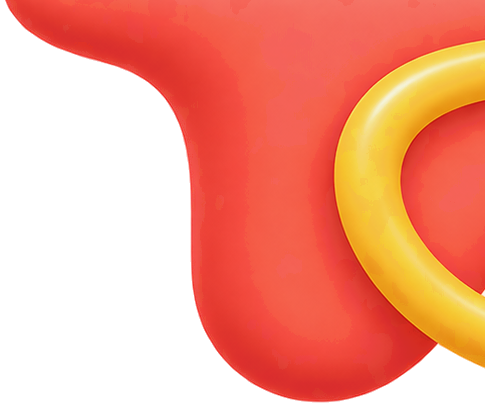
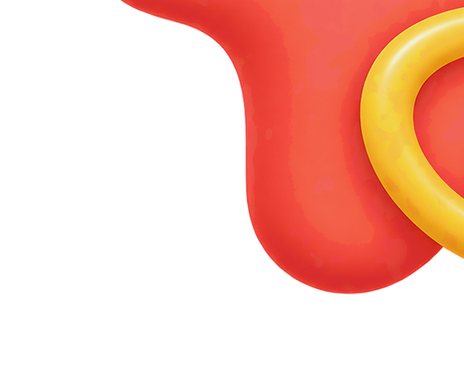
Style: Acréscimo de fundo

diff --git a/static/styles/login/auth_login.css b/static/styles/login/auth_login.css
@@ -10,11 +10,15 @@ body {
   display: flex;
   align-items: center;
   justify-content: center;
-  background-color: rgb(from var(--color-blue) r g b / 0.1);
+  /* background-color: rgb(from var(--color-blue) r g b / 0.1); */
   font-family: var(--font-primary, system-ui, sans-serif);
   position: relative;
   overflow-x: hidden;
   padding: 20px;
+  background-color: #EEEFFA;
+  background-image: radial-gradient(rgb(from var(--color-blue, #5967D9) r g b / 0.2) 1.2px, transparent 1.2px);
+  background-size: 24px 24px;
+  
 }
 
 
@@ -22,7 +26,8 @@ body {
   position: absolute;
   z-index: -1;
   pointer-events: none;
-  transition: all 0.3s ease; 
+  transition: all 0.3s ease;
+  filter: drop-shadow(0px 8px 16px rgba(0, 0, 0, 0.12));
 }
 
 .background-sup-esq { top: 0; left: 0; height: 180px; }
@@ -35,6 +40,10 @@ body {
   max-width: 460px;
   display: flex;
   justify-content: center;
+  align-items: center;
+  margin: auto; 
+  z-index: 1;
+  filter: drop-shadow(0px 8px 16px rgba(0, 0, 0, 0.05));
 }
 
 .login--card {
@@ -43,11 +52,12 @@ body {
   background-color: var(--bg-card, #FFFFFF);
   width: 100%;
   padding: 35px 40px;
-  border-radius: 20px;
+  border-radius: 24px;
   align-items: center;
   gap: 16px;
-  box-shadow: 0 4px 20px rgba(0, 0, 0, 0.03);
+  box-shadow: 0 10px 30px rgba(0, 0, 0, 0.06);
 }
+
 
 .logo_snec {
   height: 90px;
@@ -181,6 +191,7 @@ body {
   .background-sup-esq, .background-sup-dir,
   .background-inf-esq, .background-inf-dir {
     height: 180px;
+    opacity: 0.7;
   }
 }
 
@@ -196,7 +207,7 @@ body {
 @media (min-width: 1024px) {
   .background-sup-esq, .background-sup-dir,
   .background-inf-esq, .background-inf-dir {
-    height: 300px; 
+    height: 250px; 
   }
 }
 
@@ -204,6 +215,29 @@ body {
 @media (min-width: 1440px) {
   .background-sup-esq, .background-sup-dir,
   .background-inf-esq, .background-inf-dir {
-    height: 350px; 
+    height: 300px; 
   }
 }
+
+
+
+
+
+
+
+
+
+
+
+
+
+
+
+
+
+
+
+
+
+
+

diff --git a/static/styles/register/auth_register.css b/static/styles/register/auth_register.css
@@ -10,18 +10,22 @@ body {
   display: flex;
   align-items: center;
   justify-content: center;
-  background-color: rgb(from var(--color-blue) r g b / 0.1);
+  /* background-color: rgb(from var(--color-blue) r g b / 0.1); */
   font-family: var(--font-primary, 'Inter', system-ui, sans-serif);
   position: relative;
   overflow-x: hidden;
   padding: 20px;
+  background-color: #EEEFFA;
+  background-image: radial-gradient(rgb(from var(--color-blue, #5967D9) r g b / 0.2) 1.2px, transparent 1.2px);
+  background-size: 24px 24px;
 }
 
 .background {
   position: absolute;
   z-index: -1;
   pointer-events: none;
-  transition: all 0.3s ease; 
+  transition: all 0.3s ease;
+  filter: drop-shadow(0px 8px 16px rgba(0, 0, 0, 0.12)); 
 }
 
 .background-sup-esq { top: 0; left: 0; height: 180px; }
@@ -35,6 +39,7 @@ body {
   display: flex;
   justify-content: center;
   z-index: 1;
+  filter: drop-shadow(0px 8px 16px rgba(0, 0, 0, 0.05));
 }
 
 .register {
@@ -46,7 +51,7 @@ body {
   border-radius: 20px;
   align-items: center;
   gap: 16px;
-  box-shadow: 0 4px 20px rgba(0, 0, 0, 0.03);
+  box-shadow: 0 10px 3px rgba(0, 0, 0, 0.06);
 }
 
 .logo_snec {
@@ -190,6 +195,7 @@ body {
   .background-sup-esq, .background-sup-dir,
   .background-inf-esq, .background-inf-dir {
     height: 180px;
+    opacity: 0.7;
   }
 }
 
@@ -205,7 +211,7 @@ body {
 @media (min-width: 1024px) {
   .background-sup-esq, .background-sup-dir,
   .background-inf-esq, .background-inf-dir {
-    height: 300px; 
+    height: 250px; 
   }
 }
 
@@ -213,6 +219,6 @@ body {
 @media (min-width: 1440px) {
   .background-sup-esq, .background-sup-dir,
   .background-inf-esq, .background-inf-dir {
-    height: 350px; 
+    height: 300px; 
   }
 }

diff --git a/templates/login/auth_login.html b/templates/login/auth_login.html
@@ -16,6 +16,8 @@
     <img src="/static/img/fundo/canto_inf_esq-v2.png" alt="" class="background background-inf-esq">
     <img src="/static/img/fundo/canto_inf_dir-v2.png" alt="" class="background background-inf-dir">
     
+
+            
     <main class="login-container">
         <form class="login--card" action="/login/post" method="POST">
             

diff --git a/static/styles/password/auth_password_recover.css b/static/styles/password/auth_password_recover.css
@@ -48,7 +48,6 @@ body {
     width: 100%;
     max-width: 480px;
     margin: auto;
-    
     display: flex;
     flex-direction: column;
     box-shadow: 0 10px 25px -5px rgba(0, 0, 0, 0.05);
